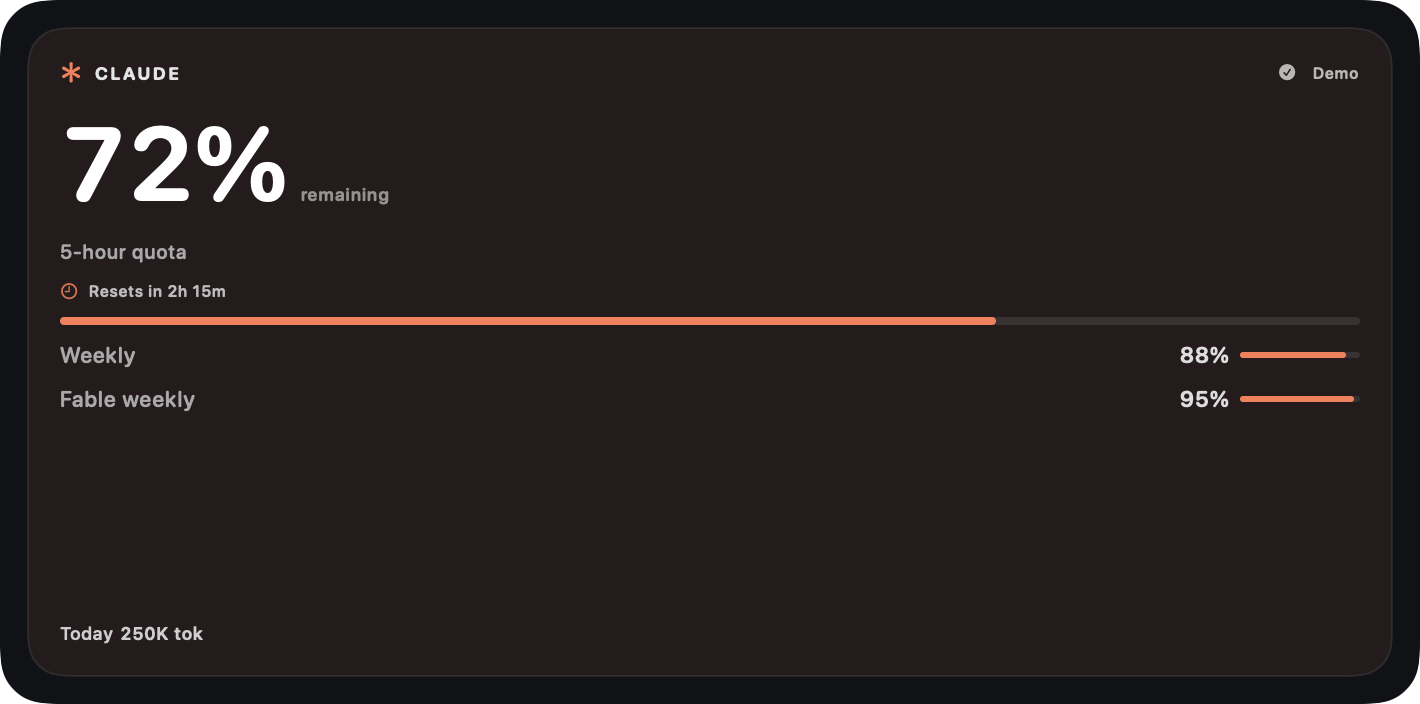
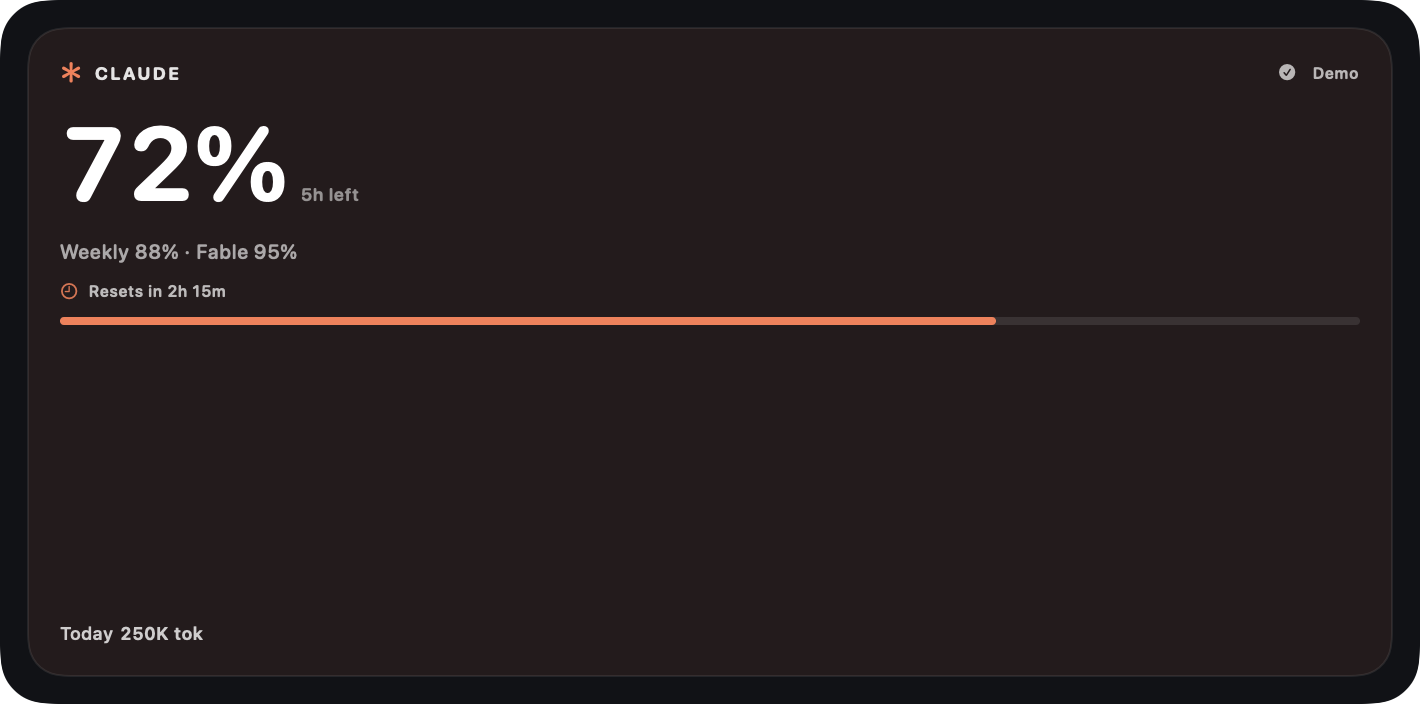
Release BeaverMeter 5.3.1: Claude Widget headlines the 5-hour limit
The Claude panel's big number is always the five-hour window, with the
remaining windows on one line ("Weekly 88% · Fable 95%", "Wk" where space
is short) in every Widget size, replacing the separate rows on Large panels.

diff --git a/Widget/QuotaProviderPanel.swift b/Widget/QuotaProviderPanel.swift
@@ -117,16 +117,14 @@ struct QuotaProviderPanel: View {
 
     private var otherWindows: [CompactQuota] { quota?.otherWindows ?? [] }
 
-    private func windowColor(_ window: CompactQuota) -> Color {
-        guard let percent = UsageFormatting.clampedPercent(window.remainingPercent) else { return provider.accent }
-        if percent < 20 { return Color(red: 1.00, green: 0.31, blue: 0.31) }
-        if percent < 50 { return Color(red: 1.00, green: 0.68, blue: 0.20) }
-        return provider.accent
+    /// Names the headline window when the detail line is about the others.
+    private var valueSuffix: String {
+        otherWindows.isEmpty ? "remaining" : "\(quota?.shortWindowName ?? "") left"
     }
 
-    /// "Wk 88% · Fable 95%" for layouts without room for window rows.
-    private var otherWindowsSummary: String {
-        otherWindows.map { "\($0.shortWindowName) \($0.percentLeftText)" }.joined(separator: " · ")
+    /// "Weekly 88% · Fable 95%", falling back to "Wk" where space is short.
+    private func windowsSummary(short: Bool) -> String {
+        quota?.otherWindowsSummary(short: short) ?? ""
     }
 
     private var status: UsageStatusPresentation { UsageStatusPresentation(data, relativeTo: referenceDate) }
@@ -181,7 +179,8 @@ struct QuotaProviderPanel: View {
                 Image(systemName: stripStatus.icon)
                 ViewThatFits(in: .horizontal) {
                     if !otherWindows.isEmpty, status.severity == .normal {
-                        Text("\(quota?.shortWindowName ?? "") · \(otherWindowsSummary)").lineLimit(1)
+                        Text(windowsSummary(short: false)).lineLimit(1)
+                        Text(windowsSummary(short: true)).lineLimit(1)
                     }
                     Text(stripDetailText)
                         .lineLimit(1)
@@ -218,31 +217,20 @@ struct QuotaProviderPanel: View {
         return "\(period) · \(dailyTokens.value) tok today"
     }
 
-    @ViewBuilder
     private var standardBody: some View {
-        if otherWindows.isEmpty || density == .compact {
-            standardContent(showsWindowRows: false)
-        } else {
-            // Window rows when the panel is tall enough, otherwise a one-line summary.
-            ViewThatFits(in: .vertical) {
-                standardContent(showsWindowRows: true)
-                standardContent(showsWindowRows: false)
-            }
-        }
-    }
-
-    private func standardContent(showsWindowRows: Bool) -> some View {
         VStack(alignment: .leading, spacing: density.spacing) {
             header
             value
 
             if density != .compact {
                 ViewThatFits(in: .horizontal) {
-                    if showsWindowRows || otherWindows.isEmpty {
+                    // With several windows the value is the five-hour one and this line
+                    // carries the rest, for example "Weekly 88% · Fable 95%".
+                    if otherWindows.isEmpty {
                         detailLine(detailText)
                     } else {
-                        detailLine("\(detailText) · \(otherWindowsSummary)")
-                        detailLine("\(quota?.shortWindowName ?? detailText) · \(otherWindowsSummary)")
+                        detailLine(windowsSummary(short: false))
+                        detailLine(windowsSummary(short: true))
                     }
                 }
             }
@@ -258,11 +246,6 @@ struct QuotaProviderPanel: View {
                 resetLine
                 QuotaProgressBar(percent: remainingPercent, tint: progressColor)
                     .frame(height: 4)
-                if showsWindowRows {
-                    ForEach(otherWindows, id: \.label) { window in
-                        windowRow(window)
-                    }
-                }
             }
             // Keeps today's tokens at the bottom when the panel has spare height.
             Spacer(minLength: 0)
@@ -292,12 +275,13 @@ struct QuotaProviderPanel: View {
     private var value: some View {
         // Drops the "remaining" suffix rather than truncating when space runs out.
         ViewThatFits(in: .horizontal) {
-            // Medium panels have no room for window rows, so the other windows sit beside the value.
+            // Medium panels have no detail line, so the other windows sit beside the value.
             if density == .compact, !otherWindows.isEmpty, status.severity == .normal {
-                valueRow(suffix: otherWindowsSummary)
+                valueRow(suffix: windowsSummary(short: false))
+                valueRow(suffix: windowsSummary(short: true))
             }
-            if density != .regular {
-                valueRow(suffix: "remaining")
+            if density != .regular || !otherWindows.isEmpty {
+                valueRow(suffix: valueSuffix)
             }
             valueRow(suffix: nil)
         }
@@ -328,23 +312,6 @@ struct QuotaProviderPanel: View {
             .foregroundStyle(.white.opacity(0.62))
             .lineLimit(1)
             .minimumScaleFactor(0.8)
-    }
-
-    private func windowRow(_ window: CompactQuota) -> some View {
-        HStack(spacing: 5) {
-            Text(window.windowTitle)
-                .foregroundStyle(.white.opacity(0.62))
-            Spacer(minLength: 4)
-            Text(window.percentLeftText)
-                .fontWeight(.semibold)
-                .monospacedDigit()
-                .foregroundStyle(.white.opacity(0.85))
-            QuotaProgressBar(percent: UsageFormatting.clampedPercent(window.remainingPercent), tint: windowColor(window))
-                .frame(width: density == .hero ? 60 : 40, height: 3)
-        }
-        .font(.system(size: density == .hero ? 11 : 9, weight: .medium, design: .rounded))
-        .lineLimit(1)
-        .accessibilityElement(children: .combine)
     }
 
     private var resetLine: some View {

diff --git a/Tests/Collector/ClaudeCollectionTests.swift b/Tests/Collector/ClaudeCollectionTests.swift
@@ -18,7 +18,7 @@ final class ClaudeCollectionTests: XCTestCase {
         try JSONDecoder().decode(ClaudeOAuthUsageResponse.self, from: Data(json.utf8))
     }
 
-    func testTightestWindowWinsIncludingModelScopedWeeks() throws {
+    func testFiveHourWindowIsTheHeadlineEvenWhenAWeekIsTighter() throws {
         let response = try usage("""
         {"five_hour":{"utilization":38,"resets_at":"2026-09-23T15:00:00.000000+00:00"},
          "seven_day":{"utilization":12.5,"resets_at":"2026-09-27T00:00:00Z"},
@@ -26,10 +26,15 @@ final class ClaudeCollectionTests: XCTestCase {
          "seven_day_sonnet":null}
         """)
         let quota = try XCTUnwrap(ClaudeQuotaCollector.quota(from: response))
-        XCTAssertEqual(quota.label, "Claude Opus Week")
-        XCTAssertEqual(quota.remainingPercent, 29)
-        XCTAssertEqual(quota.windowSeconds, 604_800)
-        XCTAssertEqual(quota.resetAt, ISO8601DateFormatter().date(from: "2026-09-27T00:00:00Z"))
+        XCTAssertEqual(quota.label, "Claude 5h")
+        XCTAssertEqual(quota.remainingPercent, 62)
+        XCTAssertEqual(quota.windowSeconds, 18_000)
+        let opus = try XCTUnwrap(quota.windows?.last)
+        XCTAssertEqual(opus.label, "Claude Opus Week")
+        XCTAssertEqual(opus.remainingPercent, 29)
+        XCTAssertEqual(opus.resetAt, ISO8601DateFormatter().date(from: "2026-09-27T00:00:00Z"))
+        XCTAssertEqual(quota.otherWindowsSummary(), "Weekly 88% · Opus 29%")
+        XCTAssertEqual(quota.otherWindowsSummary(short: true), "Wk 88% · Opus 29%")
     }
 
     func testScopedWeeklyLimitsAddFableAndKeepDisplayOrder() throws {
@@ -70,6 +75,13 @@ final class ClaudeCollectionTests: XCTestCase {
         """)
         let quota = try XCTUnwrap(ClaudeQuotaCollector.quota(from: response))
         XCTAssertEqual(quota.windows?.map(\.label), ["Claude 5h", "Claude Week", "Claude Opus Week"])
+        XCTAssertEqual(quota.label, "Claude 5h")
+    }
+
+    func testTightestWindowIsTheHeadlineWithoutAFiveHourWindow() throws {
+        let quota = try XCTUnwrap(ClaudeQuotaCollector.quota(from: usage("""
+        {"seven_day":{"utilization":20},"seven_day_opus":{"utilization":60}}
+        """)))
         XCTAssertEqual(quota.label, "Claude Opus Week")
     }
 

diff --git a/Collector/ClaudeQuotaCollector.swift b/Collector/ClaudeQuotaCollector.swift
@@ -112,8 +112,9 @@ enum ClaudeQuotaCollector {
         }
     }
 
-    /// The tightest window, carrying every window in display order: five hours,
-    /// the all-models week, then model-scoped weeks (for example Fable).
+    /// The five-hour window (the tightest one when there is none), carrying every
+    /// window in display order: five hours, the all-models week, then
+    /// model-scoped weeks (for example Fable).
     static func quota(from response: ClaudeOAuthUsageResponse) -> CompactQuota? {
         let limits = response.limits ?? []
         func limit(_ kind: String) -> ClaudeOAuthUsageResponse.Window? {
@@ -138,11 +139,11 @@ enum ClaudeQuotaCollector {
             else { continue }
             windows.append(quota)
         }
-        guard var tightest = windows.min(by: { ($0.remainingPercent ?? 101) < ($1.remainingPercent ?? 101) }) else {
-            return nil
-        }
-        tightest.windows = windows.count > 1 ? windows : nil
-        return tightest
+        guard var headline = windows.first(where: { $0.windowSeconds == 18_000 })
+                ?? windows.min(by: { ($0.remainingPercent ?? 101) < ($1.remainingPercent ?? 101) })
+        else { return nil }
+        headline.windows = windows.count > 1 ? windows : nil
+        return headline
     }
 
     static func accessToken(fromCredentials data: Data, now: Date) throws -> String {

diff --git a/Shared/UsagePresentation.swift b/Shared/UsagePresentation.swift
@@ -125,6 +125,16 @@ extension CompactQuota {
         remainingPercent.map { "\(Int(UsageFormatting.clampedPercent($0)!.rounded()))%" } ?? "—"
     }
 
+    /// "Weekly 88% · Fable 95%" for the windows other than this one; `short`
+    /// abbreviates the all-models week to "Wk" for narrow layouts.
+    func otherWindowsSummary(short: Bool = false) -> String {
+        otherWindows.map { window in
+            let name = window.windowSeconds == 604_800 && window.modelScope == nil
+                ? (short ? "Wk" : "Weekly") : window.shortWindowName
+            return "\(name) \(window.percentLeftText)"
+        }.joined(separator: " · ")
+    }
+
     /// The windows other than this summary one, in display order.
     var otherWindows: [CompactQuota] {
         (windows ?? []).filter { $0.label != label }

diff --git a/README.md b/README.md
@@ -9,7 +9,7 @@
 <p align="center">
   <a href="https://www.apple.com/macos/"><img src="https://img.shields.io/badge/macOS-14%2B-000000?style=flat-square&amp;logo=apple&amp;logoColor=white" alt="macOS 14+"></a>
   <a href="https://www.swift.org/"><img src="https://img.shields.io/badge/Swift-5.0%20%2F%206.0-F05138?style=flat-square&amp;logo=swift&amp;logoColor=white" alt="Swift 5.0 / 6.0"></a>
-  <a href="https://github.com/fusheng-ji/token_quota_widget"><img src="https://img.shields.io/badge/version-5.3.0-4C7CF3?style=flat-square" alt="Version 5.3.0"></a>
+  <a href="https://github.com/fusheng-ji/token_quota_widget"><img src="https://img.shields.io/badge/version-5.3.1-4C7CF3?style=flat-square" alt="Version 5.3.1"></a>
   <a href="LICENSE"><img src="https://img.shields.io/badge/license-MIT-2EA44F?style=flat-square" alt="MIT License"></a>
 </p>
 
@@ -295,10 +295,10 @@ https://api.anthropic.com/api/oauth/usage
 
 It reads the five-hour and all-models weekly windows plus every model-scoped
 weekly limit, such as Fable (from the response's `limits` list) or the older
-Opus and Sonnet fields. The popover lists each window with its reset time;
-Large and Extra Large Widgets add rows for the weekly and model limits, and
-smaller Widgets summarise them as `Wk 88% · Fable 95%`. The window with the
-least remaining allowance becomes the headline value. The access token is read from `~/.claude/.credentials.json` (or
+Opus and Sonnet fields. The popover lists each window with its reset time. The
+Widget shows the five-hour window as its headline number and the others on
+one line, for example `Weekly 88% · Fable 95%` (`Wk` where space is short).
+Without a five-hour window, the tightest window becomes the headline. The access token is read from `~/.claude/.credentials.json` (or
 `$CLAUDE_CONFIG_DIR/.credentials.json`), otherwise from the login Keychain
 item `Claude Code-credentials` through `/usr/bin/security`, which is how
 Claude Code writes it. BeaverMeter never refreshes the token, because that

diff --git a/CHANGELOG.md b/CHANGELOG.md
@@ -6,6 +6,14 @@ and the project uses [Semantic Versioning](https://semver.org/spec/v2.0.0.html).
 
 ## [Unreleased]
 
+## [5.3.1] - 2026-09-29
+
+### Changed
+
+- The Claude Widget panel always headlines the five-hour limit and shows the
+  other windows as one line, `Weekly 88% · Fable 95%`, in every Widget size
+  (replacing the separate window rows on Large panels).
+
 ## [5.3.0] - 2026-09-29
 
 ### Added
